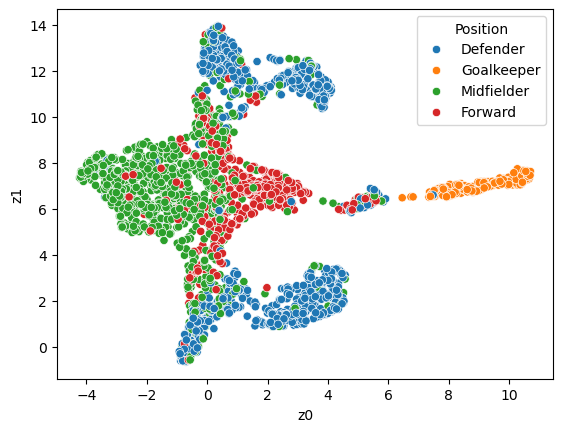
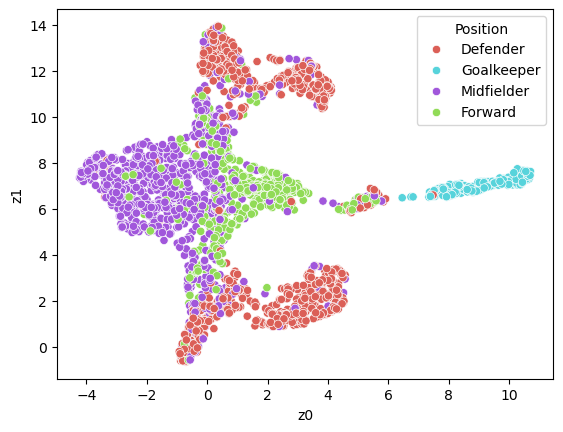
Update UMAP embedding in player vector blog post

Changed region(s): [[0.1208, 0.0301, 0.9663, 0.8426], [0.7549, 0.1505, 0.7851, 0.2708], [0.7549, 0.0903, 0.7851, 0.1204]]

diff --git a/_posts/2026-07-07-blog-post-1.md b/_posts/2026-07-07-blog-post-1.md
@@ -115,7 +115,7 @@ Flowchart 1 illustrates the three main steps when computing player vectors: Cons
 Let 
 
 $$
-e \in \{\text{"shot"}, \text{"pass"}, "dribble", \ldots \}
+e \in \{\text{"shot"}, \text{"pass"}, \text{"dribble"}, \ldots \}
 $$
 
 denote a football event type. Given an event dataset